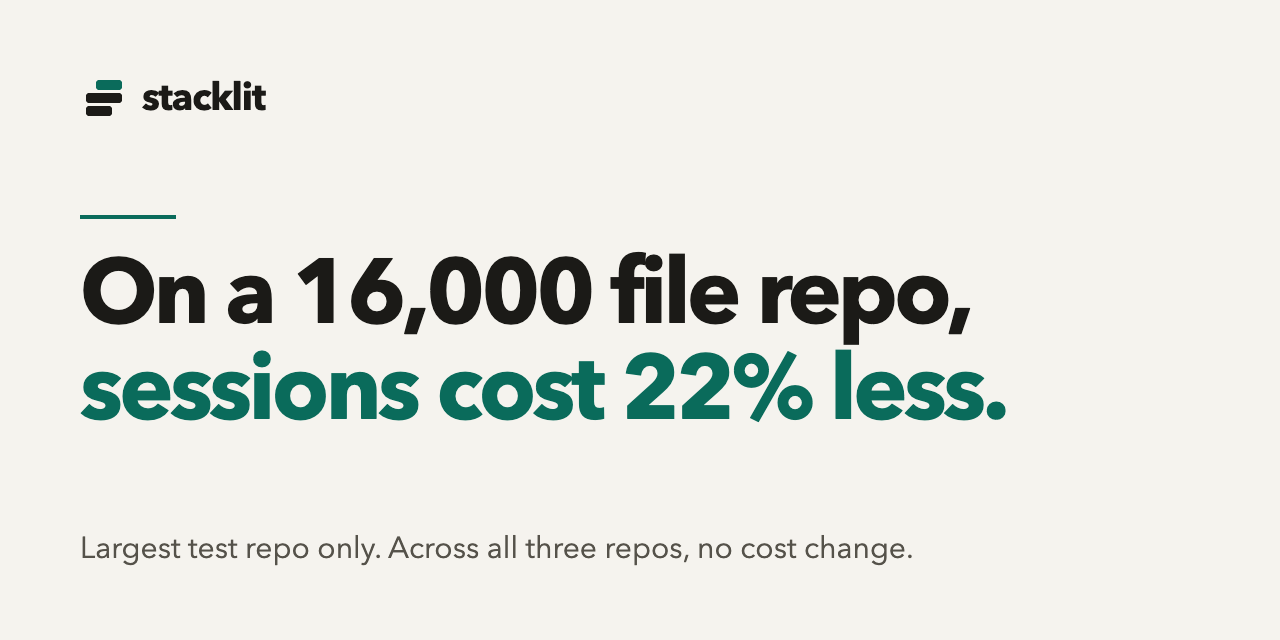
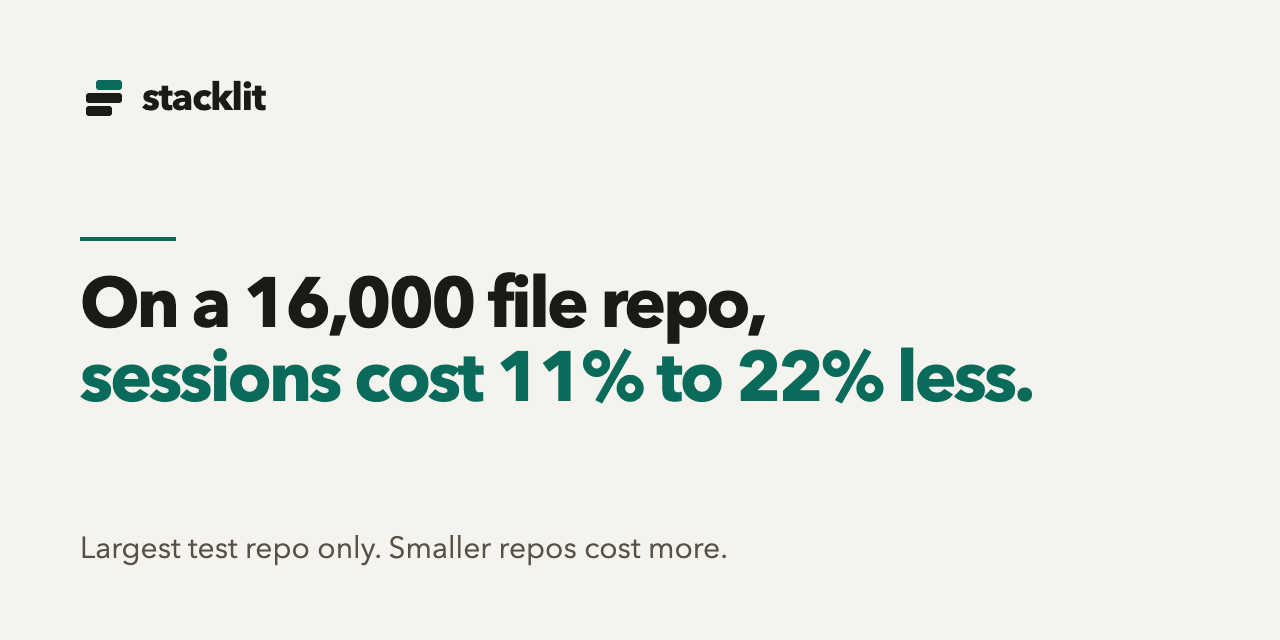
docs: show cost as cheaper on huge repos and dearer on small ones on the site (#78)

Changed region(s): [[0.0625, 0.3125, 0.8125, 0.6562], [0.2812, 0.8438, 0.7188, 0.875]]

diff --git a/site/src/data/agentAbRound2.ts b/site/src/data/agentAbRound2.ts
@@ -1,0 +1,80 @@
+// Reads the round 2 agent A/B numbers from bench/agent-ab/round2/summary.json at build time.
+// Round 1 lives in agentAb.ts and is left alone. Keys are looked up by name and a missing one stops the build.
+import { readFileSync, existsSync } from 'node:fs';
+import { resolve } from 'node:path';
+
+const path = resolve(process.cwd(), '../bench/agent-ab/round2/summary.json');
+
+function fail(msg: string): never {
+  throw new Error(`agent A/B round 2 summary (bench/agent-ab/round2/summary.json): ${msg}. The harness output changed or site/src/data/agentAbRound2.ts needs a matching edit.`);
+}
+if (!existsSync(path)) fail('file not found');
+
+interface Ci { lo: number; hi: number }
+interface Comparison { metric: string; ratio: number; ratio_ci95: Ci }
+interface Rate { rate: number }
+interface Scope { name: string; arm: string; comparisons: Comparison[]; correctness: Record<string, Rate> }
+interface Summary { sessions_per_arm: Record<string, number>; scopes: Scope[] }
+
+const raw = JSON.parse(readFileSync(path, 'utf8')) as Summary;
+if (!raw || !Array.isArray(raw.scopes) || !raw.sessions_per_arm) fail('no "scopes" array or "sessions_per_arm"');
+
+const num = (v: unknown, where: string): number => (typeof v === 'number' && Number.isFinite(v) ? v : fail(`${where} is not a number`));
+
+// The file also holds an e-against-a block under the same scope names; the first match is the one against control.
+function cmp(name: string, arm: string, metric: string): Comparison {
+  const s = raw.scopes.find((x) => x.name === name && x.arm === arm);
+  const c = s?.comparisons.find((x) => x.metric === metric);
+  if (!s || !c) return fail(`no "${metric}" for scope "${name}" arm "${arm}"`);
+  num(c.ratio, `${name}/${arm}/${metric}.ratio`);
+  num(c.ratio_ci95?.lo, `${name}/${arm}/${metric}.lo`);
+  num(c.ratio_ci95?.hi, `${name}/${arm}/${metric}.hi`);
+  return c;
+}
+const r2 = (n: number) => n.toFixed(2);
+export interface Interval { ratio: number; text: string }
+function iv(c: Comparison): Interval {
+  return { ratio: c.ratio, text: `${r2(c.ratio)} [${r2(c.ratio_ci95.lo)}, ${r2(c.ratio_ci95.hi)}]` };
+}
+function rate(scopeArm: string, who: string): string {
+  const s = raw.scopes.find((x) => x.name === 'pooled' && x.arm === scopeArm);
+  return (num(s?.correctness?.[who]?.rate, `pooled/${scopeArm} correctness.${who}`) * 100).toFixed(1);
+}
+
+export const REPOS = [
+  { name: 'levelrail', size: 'about 16,000 files' },
+  { name: 'theauth', size: 'about 2,900 files' },
+  { name: 'theauth-go', size: 'about 1,300 files' },
+  { name: 'featuredrop', size: 'about 400 files' },
+] as const;
+
+const repoRows = REPOS.map((r) => ({
+  ...r,
+  a: iv(cmp(r.name, 'stacklit', 'cost_usd')),
+  e: iv(cmp(r.name, 'stacklit-e', 'cost_usd')),
+}));
+const smallRatios = repoRows.filter((r) => r.name !== 'levelrail').flatMap((r) => [r.a.ratio, r.e.ratio]);
+const pooledA = iv(cmp('pooled', 'stacklit', 'cost_usd'));
+const pooledE = iv(cmp('pooled', 'stacklit-e', 'cost_usd'));
+const pctUp = (ratio: number) => String(Math.round((ratio - 1) * 100));
+const pctDown = (ratio: number) => String(Math.round((1 - ratio) * 100));
+
+export const ab2 = {
+  sessions:
+    num(raw.sessions_per_arm.control, 'control') + num(raw.sessions_per_arm.stacklit, 'stacklit') +
+    num(raw.sessions_per_arm['stacklit-e'], 'stacklit-e') + num(raw.sessions_per_arm['stacklit-e-small'], 'stacklit-e-small'),
+  repoRows,
+  pooledA,
+  pooledE,
+  levelrailDropA: pctDown(repoRows[0].a.ratio),
+  levelrailDropE: pctDown(repoRows[0].e.ratio),
+  smallRiseMin: pctUp(Math.min(...smallRatios)),
+  smallRiseMax: pctUp(Math.max(...smallRatios)),
+  pooledRiseE: pctUp(pooledE.ratio),
+  pooledRiseA: pctUp(pooledA.ratio),
+  grepFewerA: pctDown(cmp('pooled', 'stacklit', 'grep_glob_calls').ratio),
+  toolFewerA: pctDown(cmp('pooled', 'stacklit', 'tool_calls').ratio),
+  correctControl: rate('stacklit', 'control'),
+  correctA: rate('stacklit', 'stacklit'),
+  correctE: rate('stacklit-e', 'stacklit-e'),
+};

diff --git a/site/src/data/agentAb.ts b/site/src/data/agentAb.ts
@@ -3,6 +3,7 @@
 // missing, so a schema change in the harness is caught in the PR build, not on the site.
 import { readFileSync, existsSync } from 'node:fs';
 import { resolve } from 'node:path';
+import { ab2 } from './agentAbRound2';
 
 // Builds run from site/, and the bundled chunk has no stable relative location.
 const path = resolve(process.cwd(), '../bench/agent-ab/summary.json');
@@ -125,6 +126,7 @@ function rawKindRate(s: Scope, k: string, arm: 'control' | 'stacklit'): number {
 
 // Fills {name} placeholders in copy strings. An unknown name fails the build.
 export function fill(text: string): string {
+  const levelrailDropR1 = Math.round((1 - Number(ab.repos[0].cost.ratio)) * 100);
   const vars: Record<string, string> = {
     sessions: String(ab.sessions), pairs: String(ab.pairs),
     pooledCost: ab.cost.text, pooledTokens: ab.tokens.ratio,
@@ -143,6 +145,13 @@ export function fill(text: string): string {
     featuredropRise: String(Math.round((Number(ab.repos[2].cost.ratio) - 1) * 100)),
     impactRatio: ab.kinds.impact.cost.ratio, impactLo: ab.kinds.impact.cost.lo, impactHi: ab.kinds.impact.cost.hi,
     traceArm: ab.traceCorrect.arm, traceControl: ab.traceCorrect.control,
+    allSessions: (ab.sessions + ab2.sessions).toLocaleString('en-US'), r2Sessions: String(ab2.sessions),
+    r2GrepFewer: ab2.grepFewerA, grepFewerLow: String(Math.min(Number(ab.grepFewerPct), Number(ab2.grepFewerA))), grepFewerHigh: String(Math.max(Number(ab.grepFewerPct), Number(ab2.grepFewerA))),
+    r2ToolFewer: ab2.toolFewerA,
+    levelrailDropLow: String(Math.min(Number(ab2.levelrailDropA), Number(ab2.levelrailDropE), levelrailDropR1)), levelrailDropHigh: String(Math.max(Number(ab2.levelrailDropA), Number(ab2.levelrailDropE), levelrailDropR1)),
+    r2SmallRiseMin: ab2.smallRiseMin, r2SmallRiseMax: ab2.smallRiseMax,
+    r2PooledRiseE: ab2.pooledRiseE, r2PooledRiseA: ab2.pooledRiseA, r2PooledE: ab2.pooledE.text, r2PooledA: ab2.pooledA.text,
+    r2CorrectControl: ab2.correctControl, r2CorrectA: ab2.correctA, r2CorrectE: ab2.correctE,
     strictCost: ab.strict.cost.text, strictTokens: ab.strict.tokens.ratio, strictCorrect: ab.strict.correct,
   };
   return text.replace(/\{(\w+)\}/g, (_, k: string) => vars[k] ?? fail(`copy placeholder {${k}} has no value`));
